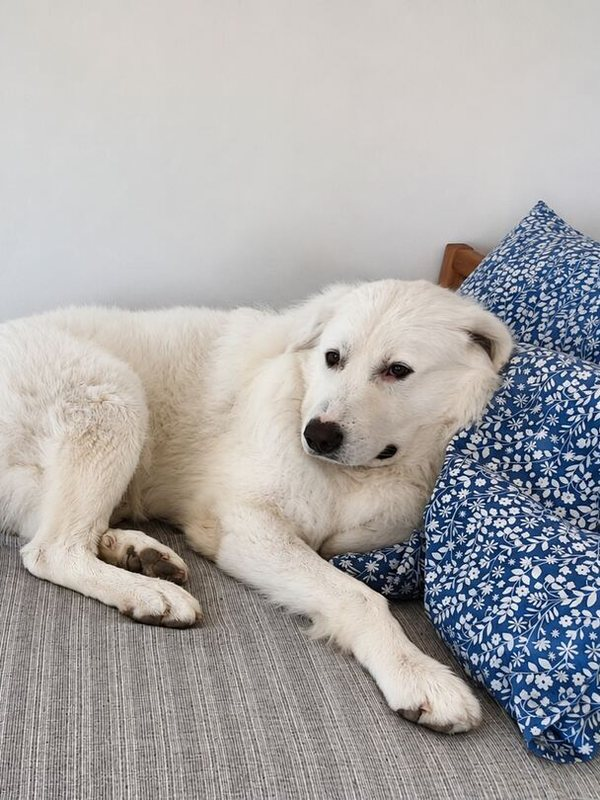
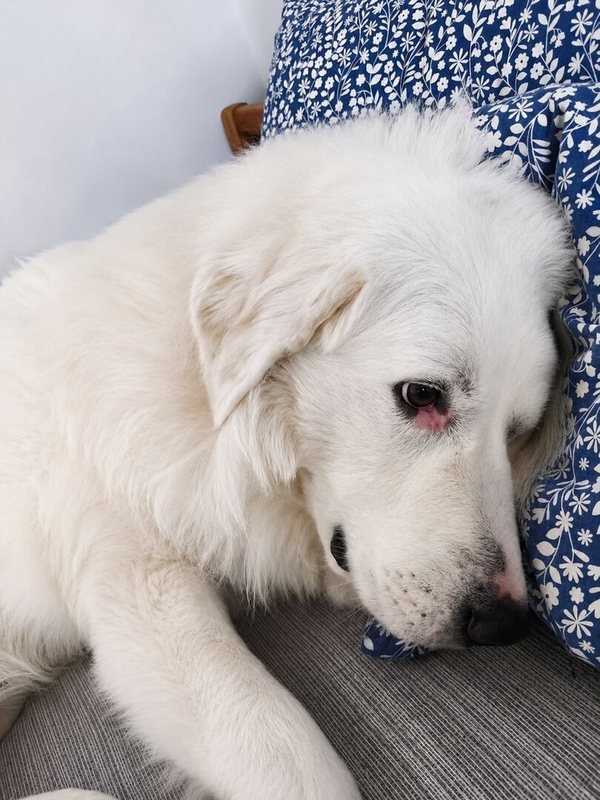
Keep two photos per pet on My pets

diff --git a/dogs.html b/dogs.html
@@ -14,7 +14,7 @@
   <meta property="og:image" content="https://federicosalerno.phd/assets/pets/ludovico-02.jpg" />
   <meta property="og:image:width" content="600" />
   <meta property="og:image:height" content="800" />
-  <meta property="og:image:alt" content="Ludovico resting on a bed against blue floral pillows" />
+  <meta property="og:image:alt" content="Close up of Ludovico resting his head on a blue floral pillow" />
   <meta name="twitter:card" content="summary" />
   <title>My pets, Federico Salerno</title>
   <link rel="icon" href="/favicon.ico" sizes="32x32">
@@ -52,10 +52,8 @@
   <section class="block" id="ludovico" aria-labelledby="ludovico-title">
     <h2 class="sec-lbl" id="ludovico-title">Ludovico</h2>
     <ul class="grid pets">
-      <li class="card"><img src="/assets/pets/ludovico-01.jpg" alt="Ludovico lying on a stone doorstep by a gravel path" width="600" height="800" loading="lazy" decoding="async"></li>
-      <li class="card"><img src="/assets/pets/ludovico-02.jpg" alt="Ludovico resting on a bed against blue floral pillows" width="600" height="800" loading="lazy" decoding="async"></li>
-      <li class="card"><img src="/assets/pets/ludovico-03.jpg" alt="Ludovico asleep on the stairs" width="600" height="800" loading="lazy" decoding="async"></li>
-      <li class="card"><img src="/assets/pets/ludovico-04.jpg" alt="Close up of Ludovico resting his head on a blue floral pillow" width="600" height="800" loading="lazy" decoding="async"></li>
+      <li class="card"><img src="/assets/pets/ludovico-01.jpg" alt="Ludovico asleep on the stairs" width="600" height="800" loading="lazy" decoding="async"></li>
+      <li class="card"><img src="/assets/pets/ludovico-02.jpg" alt="Close up of Ludovico resting his head on a blue floral pillow" width="600" height="800" loading="lazy" decoding="async"></li>
     </ul>
   </section>
 

diff --git a/CLAUDE.md b/CLAUDE.md
@@ -8,7 +8,7 @@ Repo: https://github.com/federicosalerno-phd/federicosalerno-phd.github.io (bran
 ## Struttura
 
 - Sito multi-pagina in stile SlantUI (dal 2026-10-13, dal progetto di Federico https://github.com/federicosalerno-phd/SlantUI; il precedente stile «Ledger» è nella storia git): tema nero + un solo accento verde acqua, banda del titolo obliqua a tutta larghezza in cima a ogni pagina con il bollino colorato `/assets/icon.svg` (lo stesso delle favicon e di Google) come tasto Home: 22 px dentro il disco tondo in rilievo di SlantUI (`.tbar-logo-btn` + `.tbar-logo`, 30 px, margini negativi; a riposo `control-hover` con ombra `0 1px 3px`, all'hover `accent-surface-hover`, alla pressione `accent-surface` senza ombra), premibile su tutte le pagine, home compresa (eccezione voluta da Federico); righe, tasti e card restano rettangoli raccordati, mai obliqui; NESSUN contorno: hover, focus e pressione cambiano solo il riempimento scuro, l'anello di focus compare solo da tastiera; nessuna fascia chiara grande; strisce sottili su una riga, testo lungo con ellissi (righe, Back, PDF 33 px; nome delle card 31 px, `--ctl-h`; righe di legenda 27 px, `--btn-sm-h`); cambi di colore ≤120 ms più UNA sola animazione (Federico, 2026-10-14): ogni rettangolo cliccabile si ingrandisce appena dal proprio centro all'hover o al focus da tastiera, solo `transform: scale()` (`--grow` 1.025, `--grow-ct` 1.1 sui tasti della toolbar, `--t-grow` 240 ms, `--ease-grow`), solo con `hover:hover`, spenta con `prefers-reduced-motion`; il disco Home non si ingrandisce. Regole complete in `drafts/slant/SPEC.md`. Pagine: `index.html` (home, bio corta più elenco verticale delle sezioni; la foto profilo è tonda e al click apre `assets/avatar-960.jpg` in un dialog senza animazione, chiuso da click, Escape o scroll), `about.html`, `projects.html` (My projects: 19 card in tre gruppi; il modello si apre secco in una finestra SlantUI con barra obliqua piccola, toolbar ‹ › − + giradischi proiezione vista iniziale ×, foto front/side/iso, pan, status bar con descrizione e download), `biomedical.html` (Biomedical research: indice con una riga per lavoro, che apre `biomedical-artifact.html` — metodologia metrologica AR tooltip tracking, Computers in Industry 2026 — e `biomedical-platform.html` — piattaforma di benchmarking, SN Computer Science 2026, entrambe con modello 3D reale, hotspot e legenda), `cv.html` (Academic CV, contenuti reali), `dogs.html` (My pets dal 2026-11-23, URL lasciato com'era per non rompere i link: un blocco con `.sec-lbl` per animale, Ludovico il cane, Abricot il carlino nero, Niki il coniglio; tutte le foto nello stesso formato 3:4, 600×800).
-- `assets/`: immagini e file statici. `assets/avatar.jpg` è la foto profilo (480 px); `assets/avatar-1024.png` è la sorgente, non referenziata. `assets/creations/<slug>/` per ogni progetto di My projects (model, photos, download); `assets/papers/` PDF e copertine delle pubblicazioni; `assets/biomedical/` asset dei lavori Biomedical (`tooltip-artifact/`, `benchmarking-platform/`: model, photos, download); `assets/pets/` foto di My pets (`ludovico-01..04.jpg`, `abricot-01..02.jpg`, `niki-01..02.jpg`), tutte ritagliate a 3:4 e salvate a 600×800 senza metadati: una foto nuova va portata allo stesso formato (richiesta di Federico, 2026-11-23).
+- `assets/`: immagini e file statici. `assets/avatar.jpg` è la foto profilo (480 px); `assets/avatar-1024.png` è la sorgente, non referenziata. `assets/creations/<slug>/` per ogni progetto di My projects (model, photos, download); `assets/papers/` PDF e copertine delle pubblicazioni; `assets/biomedical/` asset dei lavori Biomedical (`tooltip-artifact/`, `benchmarking-platform/`: model, photos, download); `assets/pets/` foto di My pets (`ludovico-01..02.jpg`, `abricot-01..02.jpg`, `niki-01..02.jpg`: due foto per animale, così i blocchi sono equilibrati), tutte ritagliate a 3:4 e salvate a 600×800 senza metadati: una foto nuova va portata allo stesso formato (richiesta di Federico, 2026-11-23).
 - `assets/js/mesh-field.js`: eccezione al JS inline (l'altra è `model-tone.js`), perché identico su tutte e otto le pagine. Reticolo triangolato in WebGL vanilla su un `<canvas>` fisso a `z-index:-1`, con maglia volutamente irregolare (`JITTER 0.36`: le facce variano in forma e dimensione come in una mesh non strutturata). Il reticolo non è ovunque: si dissolve allontanandosi dal cursore su `HALO` (820 px), partendo da `REST_A`. La faccia in cui il cursore si trova davvero è individuata sulla CPU con il test baricentrico (ricerca locale sulle celle vicine, ~50 test per frame) e passata allo shader come uniform `u_hot`: solo quella è riempita a `HOT_A 0.40` e in tinta, un gradino netto sopra tutto il resto. Le altre facce prendono il valore di una caduta liscia al proprio baricentro, quantizzato in `STEPS 5` gradini, così gli anelli si accendono per gradi discreti e non come sfumatura; `JAG` dà a ogni faccia una soglia propria, ricavata dal suo baricentro, che spezza la silhouette lungo il reticolo invece di lasciarla tonda. Il riempimento di ogni faccia è rientrato di `INSET` rispetto ai propri spigoli, così finisce esattamente sotto la linea che la disegna e non sborda mai; il contesto WebGL è creato con `antialias: true` (4 campioni), perché senza multisampling i lati obliqui di un triangolo pieno sono una scalinata. Il foglio si solleva di `PEAK` (9 px: la differenza fra un foglio che si piega e una bolla). Niente simulazione: formula chiusa della posizione del puntatore, che non è filtrata (`POINTER_TAU 0`: nessuna inerzia, la faccia sta sotto il cursore e non dietro), quindi a cursore fermo il frame successivo è identico e il rAF si ferma; tre draw call su buffer statici. Colore: nessuna tinta vera, il sito non ne ha. `TINT #aebfc8` con `TINT_MIX 0.55` è l'accento del sito portato appena verso il blu, una temperatura e non un colore (`TINT_MIX 0` per un reticolo in grigi piatti). La card delle citazioni e la scritta «Click a triangle» compaiono e spariscono secche, su pannello scuro pieno senza bordo con la barretta verde acqua a sinistra; prendono i token di `slant.css` via `var()` con fallback. Colonna di lettura (`--measure`) al 50% con rampa di 100 px. Si spegne con `prefers-reduced-motion`, su puntatori grossolani, senza WebGL e su `<body data-mesh-field="off">`. Dopo una quarantina di movimenti del puntatore e `HINT_AFTER` ms dal primo, una volta sola per browser (`localStorage`, chiave `mesh-field-hint`), compare in basso a destra la scritta «Click a triangle»: senza, l'easter egg non lo troverebbe nessuno. Qualsiasi click la archivia, mostrata o no. Cliccando una faccia esce una citazione (autore, anno, luogo) in una card accanto al triangolo scelto: sul click e non sull'hover, perché un cursore fermo su una pagina di solito appartiene a qualcuno che sta leggendo. Una alla volta, `QUOTE_REST` di pausa prima che se ne apra un'altra, si chiude da sola dopo `QUOTE_HOLD`, con il click o con Escape. Le frasi stanno in `assets/js/quotes.js` (~250 voci, formato `[testo, autore, anno, luogo]`), caricato in `requestIdleCallback` e mai al primo paint; l'estrazione è a sacchetto (indici mescolati e consumati senza reinserimento), quindi escono tutte prima che una si ripeta. Metà sono citazioni vere attribuite con prudenza (le incerte sono marcate «attributed to», le apocrife note sono state escluse), metà sono battute riconoscibili come tali dall'attribuzione. Tutto in inglese come il resto del sito, con qualche frase lasciata in lingua originale seguita dalla resa inglese. Le quattro alternative scartate (`aurora`, `dots`, `flow`, `contours`) restano in `drafts/bg/` con la pagina di confronto `drafts/bg/preview.html?v=slug`; per cambiare basta copiare `drafts/bg/<slug>.js` su questo file.
 - `assets/js/model-tone.js`: seconda eccezione al JS inline, linkato con `defer` dopo model-viewer dalle tre pagine con modelli 3D (projects, biomedical-artifact, biomedical-platform). Al `load` di ogni `<model-viewer>` (listener in capture sul document, quindi prima di ogni listener delle pagine) corregge i materiali via API di model-viewer, perché gli export CAD sono tutti opachi come gesso (metallic 0, roughness .9) con i colori di default del CAD. Colore: in OKLCH croma × `--tone-chroma` (.7) e chiarezza al massimo `--tone-lmax` (.62, un po' di più verso i gialli), così un pastello diventa un colore pieno e scuro invece che un pastello più grigio; i bianchi non metallici scendono a `--tone-white` (.45 lineare) per non bruciare. Finitura dal nome d'aspetto SolidWorks (polished steel, satin finish aluminum, glossy rubber...): i metalli diventano metallic 1 con roughness .2-.48 e grigio almeno `--metal-grey` (.56); il materiale senza nome (grigio CAD di default) vale acciaio; plastiche e gomme roughness .28-.75. Il colore corretto è il nuovo «originale» che i toggle dei pezzi e l'evidenziazione teal del platform memorizzano e ripristinano. `window.modelTone()` dà la stessa tinta agli assi x/y/z della triade (anche `--axis-*` e la figura di allineamento dell'artifact). Luce di tutti i `<model-viewer>` (2026-10-13, dopo «tutto chiaro, pastelloso, piatto»): `environment-image="/assets/env/studio.hdr"` (studio scuro generato, 256×128 RGBE: softbox principale in alto a sinistra, due controluce, riempimento debole, pavimento grigio e pannello frontale perché i metalli non riflettano il nero), `tone-mapping="neutral"` (AgX lavava i colori), `exposure="0.75"`, `shadow-intensity="1"` `shadow-softness="0.6"` (il componente isolato del platform resta a 0). Il file .hdr va servito con estensione `.hdr` senza query string, altrimenti model-viewer non lo riconosce. Le foto dei modelli (card `shot-grid`, `shot-front`/`side`/`iso` di creations e biomedical, 820 px su `--surface-0`) sono render dello stesso model-viewer con la stessa luce, quindi niente filtro CSS; strumenti in `drafts/render/`: `gen_env.py` genera l'HDR, `upload_server.py` (porta 5502) salva i render, `render-harness.js` si importa da projects.html e scatta (front e side quasi ortografici a FOV 1°, grid 30° 65°, iso 35° 58°, `compose.py` ritaglia e compone). Foto vere (Ludovico, avatar, copertine) non toccate.
 - `assets/css/slant.css`: il foglio condiviso, identico su tutte e otto le pagine (eccezione all'inline per lo stesso motivo di `mesh-field.js`): token in `:root` (palette, font, spaziature, raggi, altezze) e componenti comuni (`.titlebar` e `.tbar-*` banda, `.wrap`/`h1`/`.lede`/`.sec-lbl`, `.list`+`.row`, `.back`, `.pdf`, `.grid`+`.card`, finestra `.veil`+ `.win`+`.win-bar`/`.win-tools`/`.ct`/`.win-stage`/`.win-status`, `.mv-split`+`.shots`, `.foot`). Gli stili di una sola pagina restano inline in quella pagina.
